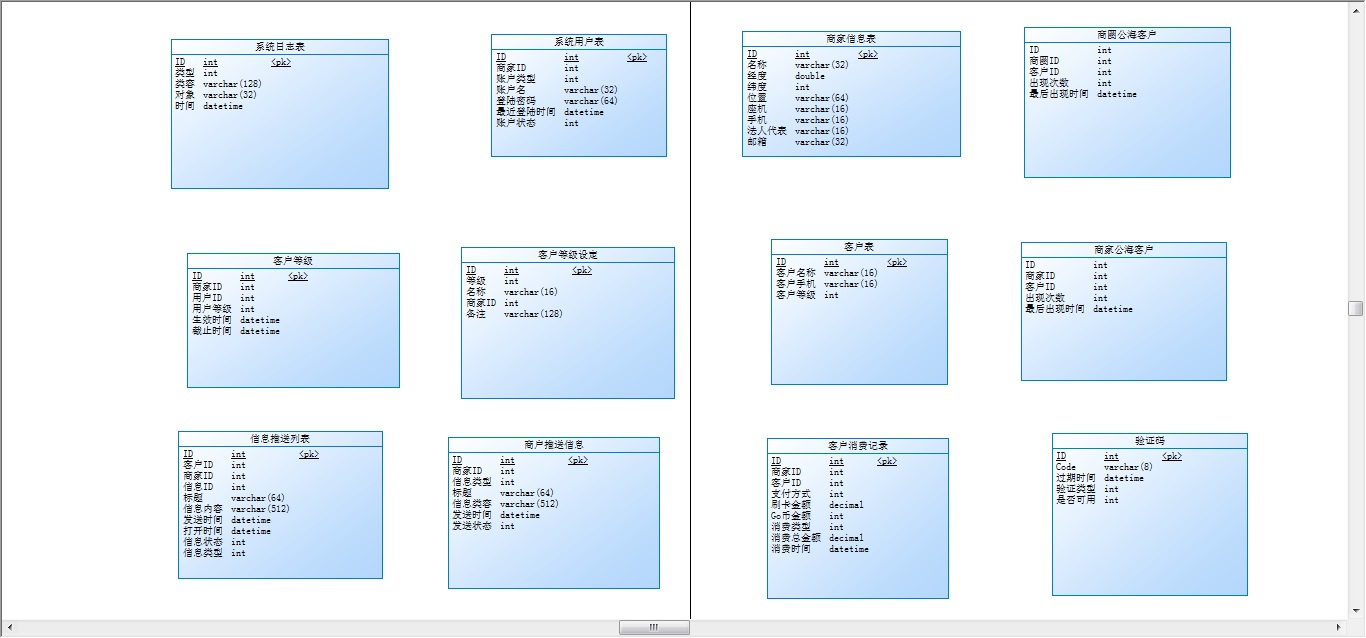
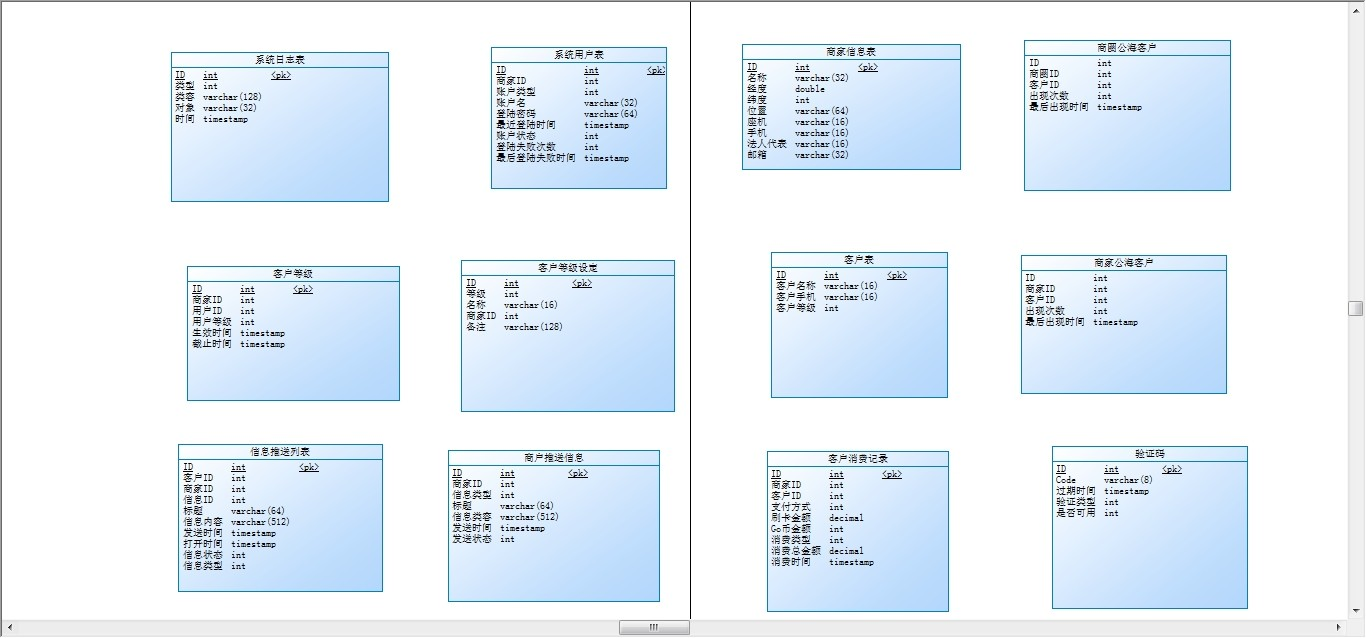
datatime - > timestamp

diff --git a/trunk/crm/application/models/login_model.php b/trunk/crm/application/models/login_model.php
@@ -37,20 +37,19 @@ class LoginModel
 
         // get user's data
         // (we check if the password fits the password_hash via password_verify() some lines below)
-        $sth = $this->db->prepare("SELECT user_id,
-                                          user_name,
-                                          user_email,
-                                          user_password_hash,
-                                          user_active,
-                                          user_account_type,
-                                          user_failed_logins,
-                                          user_last_failed_login
-                                   FROM   users
-                                   WHERE  (user_name = :user_name OR user_email = :user_name)
-                                          AND user_provider_type = :provider_type");
+        $sth = $this->db->prepare("SELECT
+									`crm_users`.`ID`,
+									`crm_users`.`Shop_ID`,
+									`crm_users`.`Type`,
+									`crm_users`.`Account`,
+									`crm_users`.`Password`,
+									`crm_users`.`Last_Login`,
+									`crm_users`.`State`
+									FROM `gogotowncrm`.`crm_users`
+                                   WHERE Account = :user_name");
         // DEFAULT is the marker for "normal" accounts (that have a password etc.)
         // There are other types of accounts that don't have passwords etc. (FACEBOOK)
-        $sth->execute(array(':user_name' => $_POST['user_name'], ':provider_type' => 'DEFAULT'));
+        $sth->execute(array(':user_name' => $_POST['user_name']));
         $count =  $sth->rowCount();
         // if there's NOT one result
         if ($count != 1) {

diff --git a/trunk/crm/application/config/config.php b/trunk/crm/application/config/config.php
@@ -96,7 +96,7 @@ define('COOKIE_DOMAIN', '.localhost');
  */
 define('DB_TYPE', 'mysql');
 define('DB_HOST', '127.0.0.1');
-define('DB_NAME', 'login');
+define('DB_NAME', 'gogotowncrm');
 define('DB_USER', 'root');
 define('DB_PASS', '111111');
 
